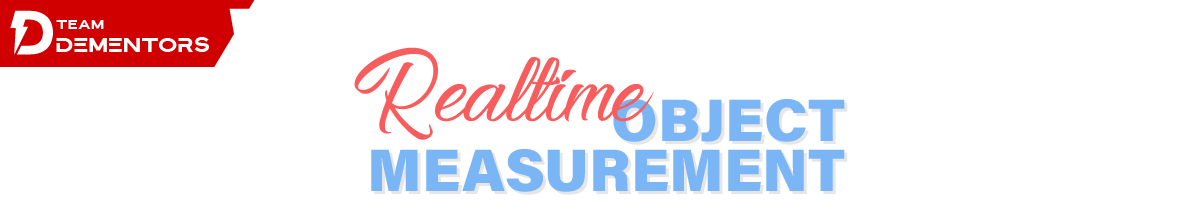
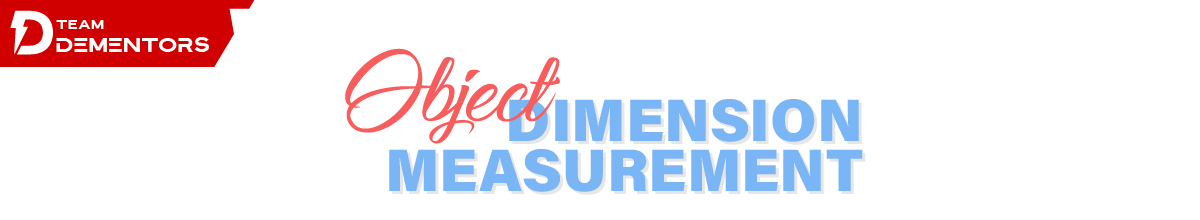
Add: final image

Changed region(s): [[0.2775, 0.2182, 0.74, 0.9]]

diff --git a/main.py b/main.py
@@ -19,7 +19,7 @@ class initRoot(themed_tk.ThemedTk):
         ctypes.windll.shcore.SetProcessDpiAwareness(1)
         super().__init__()
         self.set_theme("plastik")
-        self.geometry("1500x1030+100+0")
+        self.geometry("1800x1030+100+0")
         self.title("Realtime Object Measurement")
         self.iconbitmap("favicon.ico")
         self.winWidth = 1500

diff --git a/RealtimeObjectMeasurement.py b/RealtimeObjectMeasurement.py
@@ -9,8 +9,8 @@ class App():
     _cam.set(3,1920) # Width
     _cam.set(4,1080) # Height
     _scale = 3
-    _hP = 297 * _scale
-    _wP= 210 * _scale
+    _hP = 455 * _scale
+    _wP= 305 * _scale
 
     def __init__(self):
         pass

diff --git a/utils.py b/utils.py
@@ -9,7 +9,7 @@ def cv2_to_image(image):
     image = Image.fromarray(image)
     w, h = image.size
     if w > h:
-        W = 600
+        W = 800
         H = (W*h)/w
     else:
         H = 600

diff --git a/README.md b/README.md
@@ -1,23 +1,38 @@
-# Real Time Object Measurement 
+# Image Processing Lab
+## Term Project
+## Object Dimensions Measurement
 
-[![Watch Video](https://github.com/murtazahassan/Real-Time-Object-Measurement/blob/master/Thumbnail.gif)](https://youtu.be/aHW3Hl0XX1U)
-
-Learn how to perform object measurement using OpenCV and Python. We will use an A4 paper as our guide and find the width and height of objects placed in this region.
-
-Full OpenCV 3 Hour Course: https://youtu.be/WQeoO7MI0Bs
-
-Links:
-
-Recommend Webcam for Computer Vision:https://amzn.to/2MNtVKZ
-
-Budget Webcam:https://amzn.to/2ZP47Ug
+### Team DEMENTORS
+#### Members :
+1.	Aditya Kumar Dubey (BTECH/10246/19)
+2.	Saurav Priyadarshi (BTECH/10348/19)
+3.	Aswat Singh Bisht (BTECH/10402/19)
+4.	Nitansh Ritul (BTECH/10438/19)
+5.	Saketh Kumar Pabba (BTECH/10602/19)
 
 
+## Introduction 
+"Object Dimension Measurement" is a software for detecting the dimensions of  objects. It takes an image with a white background of known dimension(A4 sheet) with  objects  placed on it and displays its dimensions in the specified measuring units. We have created a system that uses the OpenCV software library to implement the proposed technique.
+We determine the reference object, an A4 sheet, before we can calculate the size of each object. Following that, the dimensions of the objects within the reference are calculated and displayed.
 
-Video Links :
 
-How to install Opencv in Python:https://youtu.be/CJXIjApHYVs
 
-Real time color Detection:https://youtu.be/Tj4zEX_pdUg
 
-5 Must Know OpencCV Functions:https://youtu.be/7kHhz7nkpBw
+## Methodology
+In utils.py file, In the Input image contours  were found and processed to find the dimensions of objects .
+
+Created a canny image of the input image. Applied dilation and erosion features so that the process of creating a canny image is smooth.
+
+Determined the white paper's(A4 sheet) constraint, which is a rectangle.
+
+The software takes into account the orientation and perspective of the reference sheet. 
+Considered the variation of the edge lengths due to different perspectives and calculated the average lengths of the horizontal edges and vertical edges and the page's orientation is consequently determined. 
+Hence it works for both horizontal and vertical orientations.
+
+Applied filter as a rectangle because the background white paper is rectangle. Finalizied the contours appending the length and area. Hence specifying the detection of the A4 sheet. 
+
+With the help of the canny image the dimensions of objects placed on the A4 sheet were measured.
+
+Displayed an arrowed line representing the length and breadth of the objects and estimated their magnitude. 
+
+## Results
